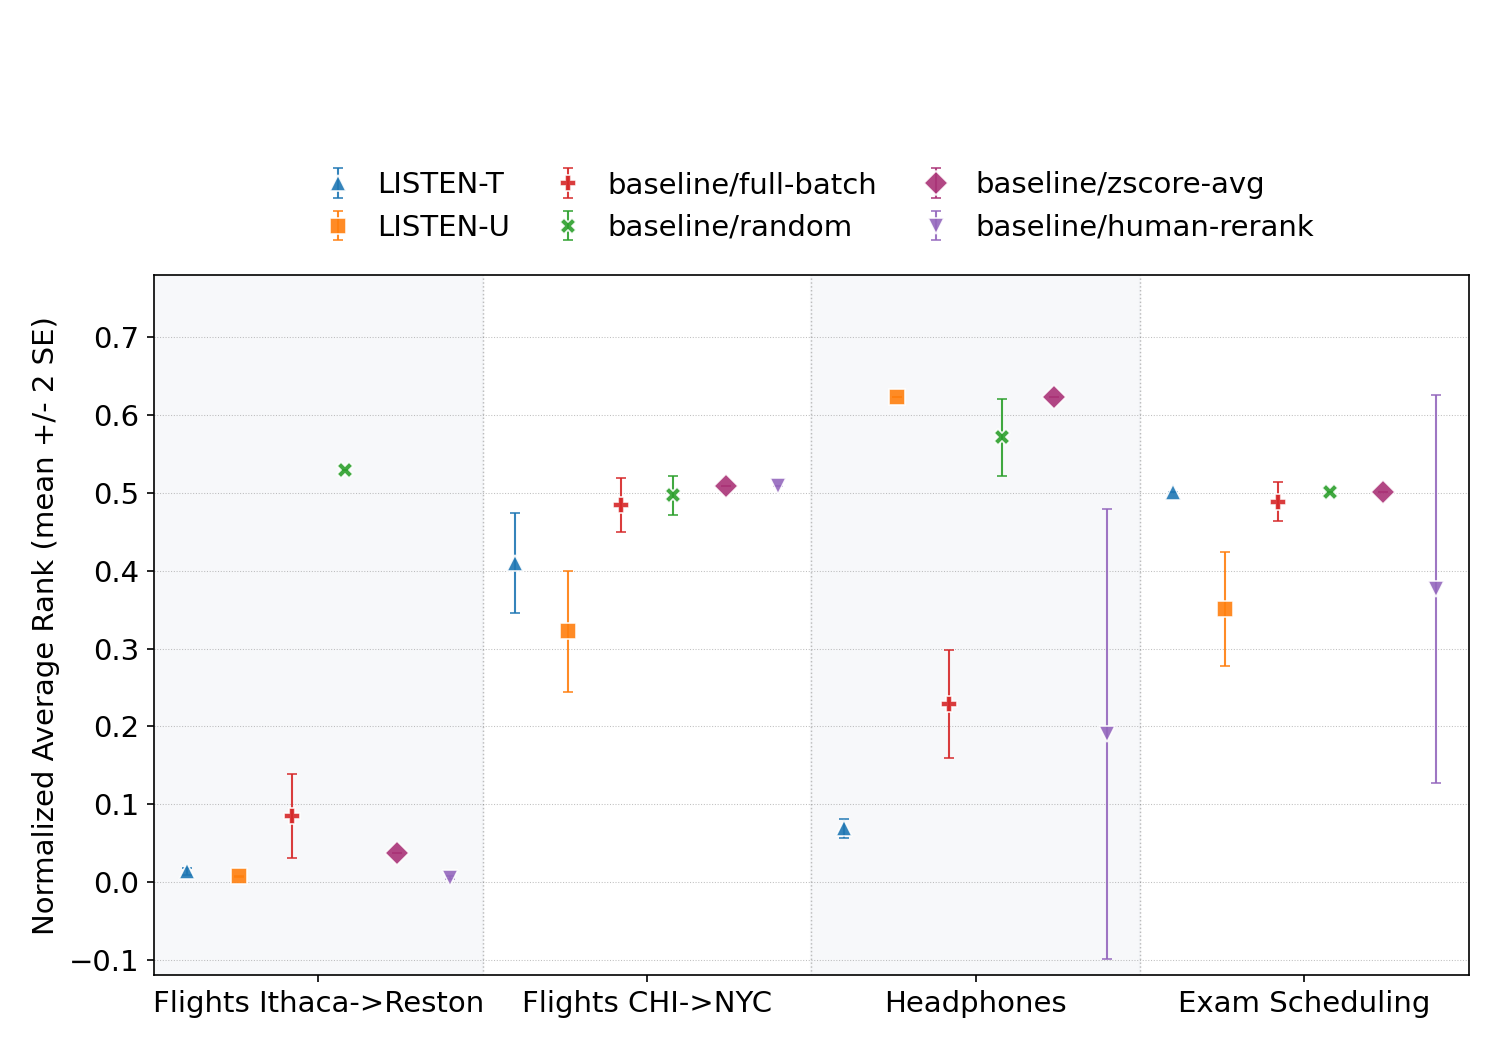
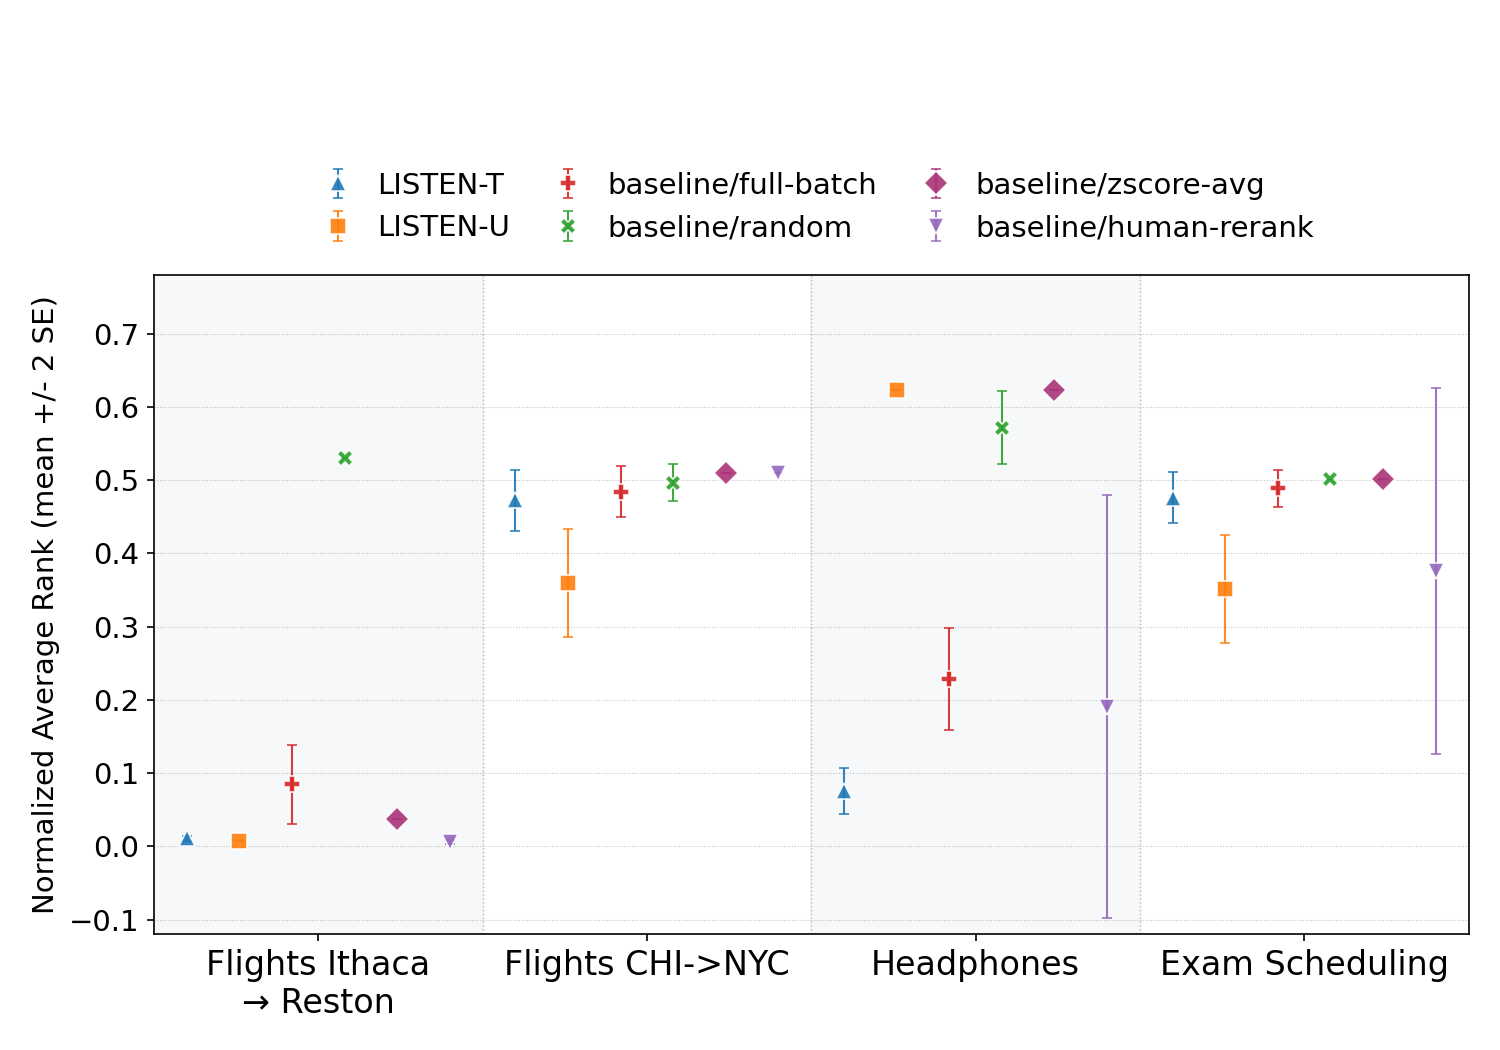
Larger x-axis font and 2-line Ithaca→Reston label in by_algo plots
Bump x-tick labelsize 14→16; split "Flights Ithaca->Reston" onto two
lines for readability.

diff --git a/plotting/plot_orders_by_algo.py b/plotting/plot_orders_by_algo.py
@@ -36,7 +36,7 @@ from plotting_helpers import (  # noqa: E402
 # has more than one preference-utterance mode worth plotting separately.
 COLUMNS: List[Tuple[str, str, str, str]] = [
     # (column_id, scenario, primary_mode, display_name)
-    ("flights_ithaca_reston", "flights_ithaca_reston", "Complicated",            "Flights Ithaca->Reston"),
+    ("flights_ithaca_reston", "flights_ithaca_reston", "Complicated",            "Flights Ithaca\n→ Reston"),
     ("flights_chi_nyc",       "flights_chi_nyc",       "Complicated_structured", "Flights CHI->NYC"),
     ("headphones__MAIN",      "headphones",            "MAIN",                   "Headphones"),
     ("headphones__SOFT",      "headphones",            "SOFT",                   "Headphones-SOFT"),
@@ -411,7 +411,7 @@ def plot_one_api_summary(
 
     ax.set_xticks(x_centers)
     ax.set_xticklabels([column_labels[c] for c in column_ids], ha="center")
-    ax.tick_params(axis="x", labelsize=14)
+    ax.tick_params(axis="x", labelsize=16)
     ax.tick_params(axis="y", labelsize=14)
     ax.set_ylabel("Normalized Average Rank (mean +/- 2 SE)", fontsize=14)
     style_paper_axes(ax, n_col)
@@ -542,7 +542,7 @@ def plot_one_api(
 
     ax.set_xticks(x_centers)
     ax.set_xticklabels([column_labels[c] for c in column_ids], ha="center")
-    ax.tick_params(axis="x", labelsize=14)
+    ax.tick_params(axis="x", labelsize=16)
     ax.tick_params(axis="y", labelsize=14)
     ax.set_ylabel("Normalized Average Rank (mean +/- 2 SE)", fontsize=14)
     style_paper_axes(ax, n_col)